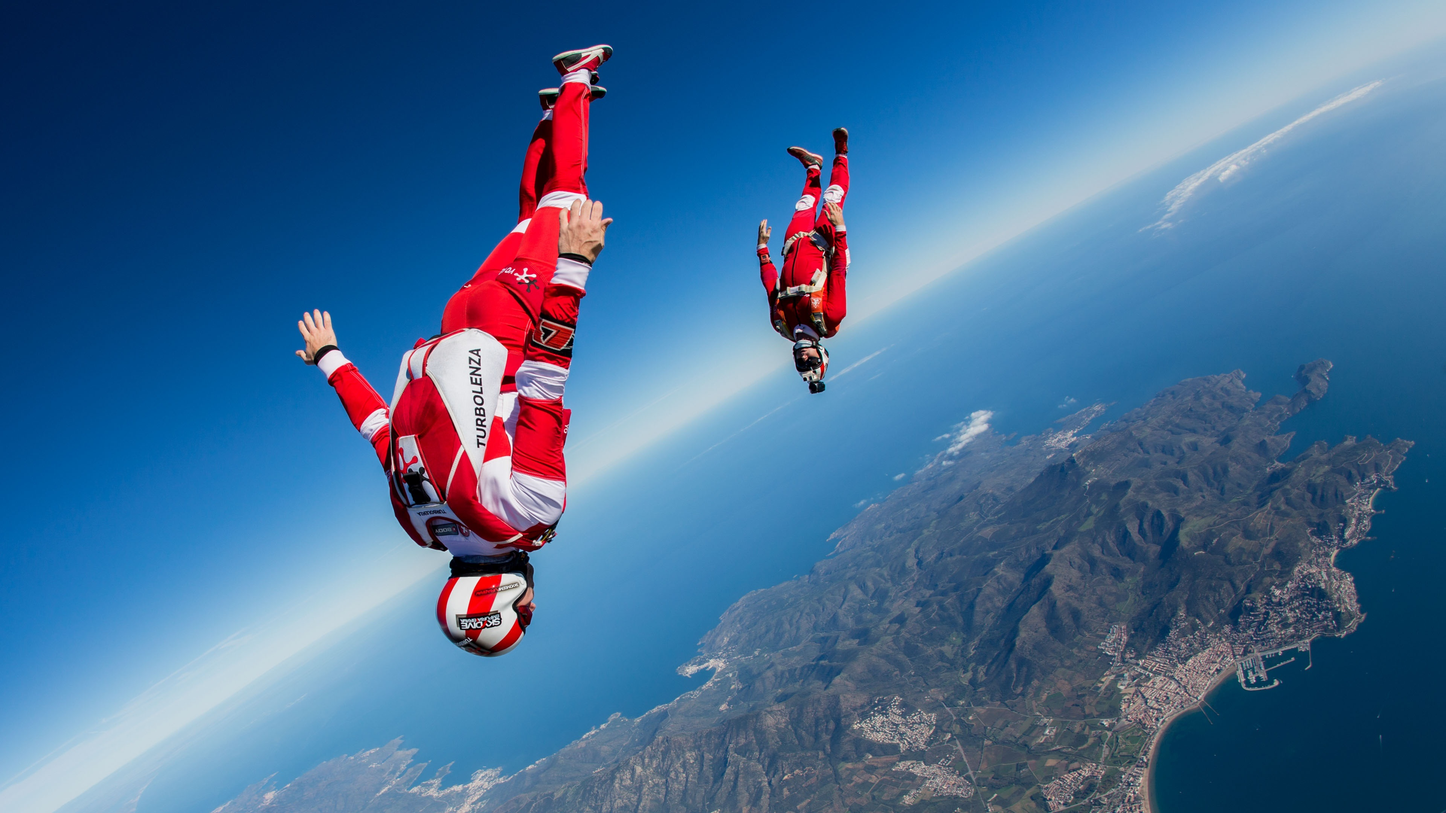
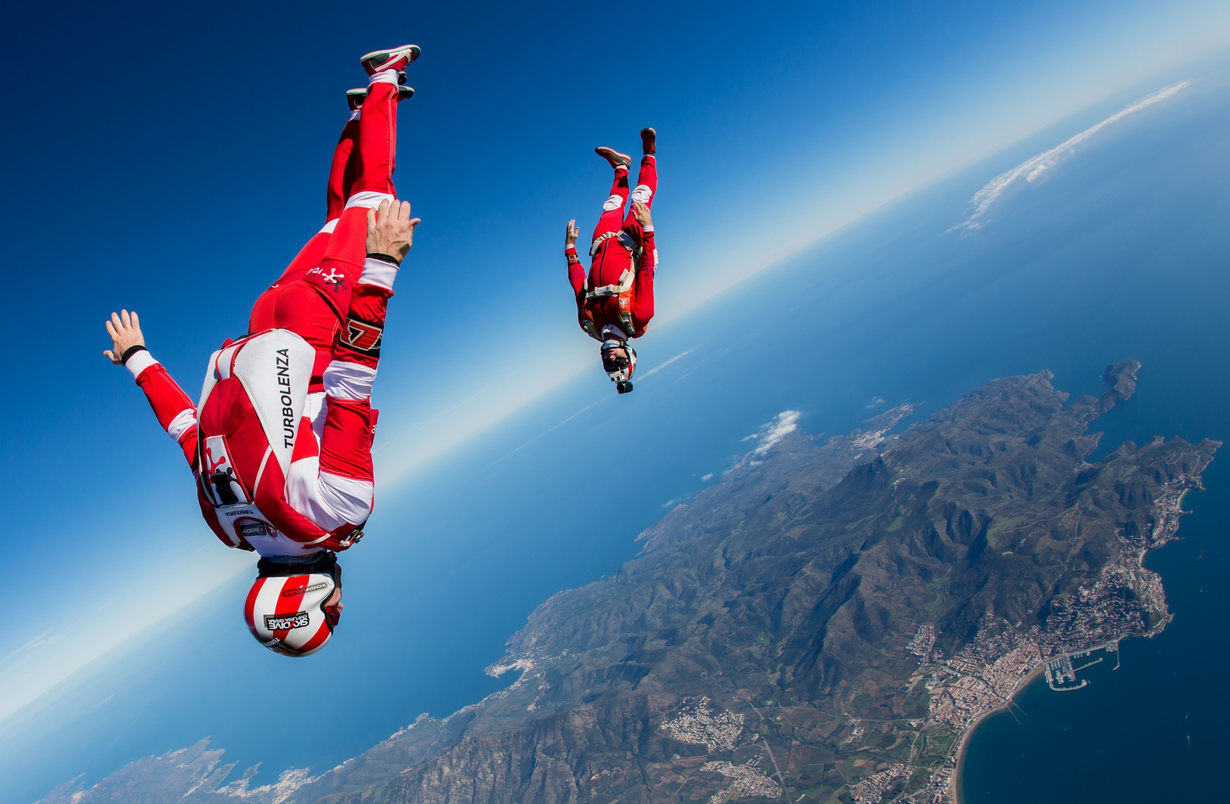
segui mejorando la el diseño adaptativo

diff --git a/public/css/styles.css b/public/css/styles.css
@@ -5,9 +5,18 @@
   margin: 0;
   font-size: 0.95em;
 }
+ body {
+  background-image: url("../img/skydivers-home.jpg");  
+  background-size: cover;
+  background-repeat: no-repeat;
+  background-color: white;
+ }
 
+nav .logo-PC {
+  display: none; 
+}
 
-nav img.logo {
+nav .logo-phone {
   display: inline-block;
   width: 80px;
 }
@@ -16,7 +25,6 @@ nav ul {
   float: right; /* corre la seccion a la iz, no pude hacerlo con flexbox */
   margin-right: 20px;
   list-style-type: none;
-
   /* display: flex;    
     flex-direction: row row-reverse;
     justify-content: space-between; */
@@ -25,8 +33,8 @@ nav ul {
 nav ul li {
   display: inline-block;
   margin: 11px 5px 5px;
+  color: white;
 }
-
 nav ul li a {
   text-decoration: none;
   font-weight: 500;
@@ -39,7 +47,7 @@ a:hover {
 
 .checkbtn {
   font-size: 20px;
-  color: rgb(44, 42, 42);
+  color: white;
   float: right;
   line-height: 42px;
   margin-right: 20px;
@@ -54,22 +62,50 @@ a:hover {
     pending
 } */
 
+body section {
+  width: 80vw;
+  height: 90vh;
+ 
+}
+
 footer p {
-    color: rgb(44, 42, 42);
-    font-size: 0.4em;
+    color: white;
+    font-size: 0.7em;
     margin: 2px 5px;
+    float: right;
 }
 
 
-@media (min-width: 445px) {
+@media (min-width: 480px) {
+  nav {
+    background-color: white;
+  }
+  body ~ nav {
+    background-image: url("../img/skydivers-home.jpg");  
+    background-size: cover;
+    background-repeat: no-repeat;
+    background-color: white;
+   }
     
+   nav .logo-PC {
+    display: inline-block;
+    width: 70px;     
+  }
+  
+  nav .logo-phone {
+    display: none;
+    width: 80px;
+  }
+
   nav ul li a {
     display: inline-block;
   }
   nav ul li {
     display: inline-block;
     margin: 15px 5px 5px;
+    color: rgb(44, 42, 42);
   }
+  
   .checkbtn {
     display: none;
   }

diff --git a/views/index.html b/views/index.html
@@ -21,7 +21,8 @@
     <label for="check" class="checkbtn">
     <i class="fa-solid fa-bars"></i>
   </label>
-    <img class="logo" src="img\logo-red-removebg.png" alt="logo-nav"/>
+    <img class="logo-PC" src="img\logo-red-removebg.png" alt="logo-nav-pc"/>
+    <img class="logo-phone" src="img\logowhite-removebg.png" alt="logo-nav-PC"/>
     <ul>
       <li><a class="active"  href="/">NOSOTROS</a></li>
       <li><a class="active" href="/">RESERVA TU SALTO</a></li>
@@ -32,8 +33,12 @@
     </ul>
   </nav>
   <body>
-    <section></section>
-    <img src="img\skydivers-home.jpg" alt="home" width="100%" />
+    <section>
+      <!-- <div class="fondo" style="background-image: url('img\skydivers-home.jpg')"></div> -->
+    </section> 
+
+    
+    <!-- <img src="img\skydivers-home.jpg" alt="home" width="100%" /> -->
   </body>
 
   <footer>
